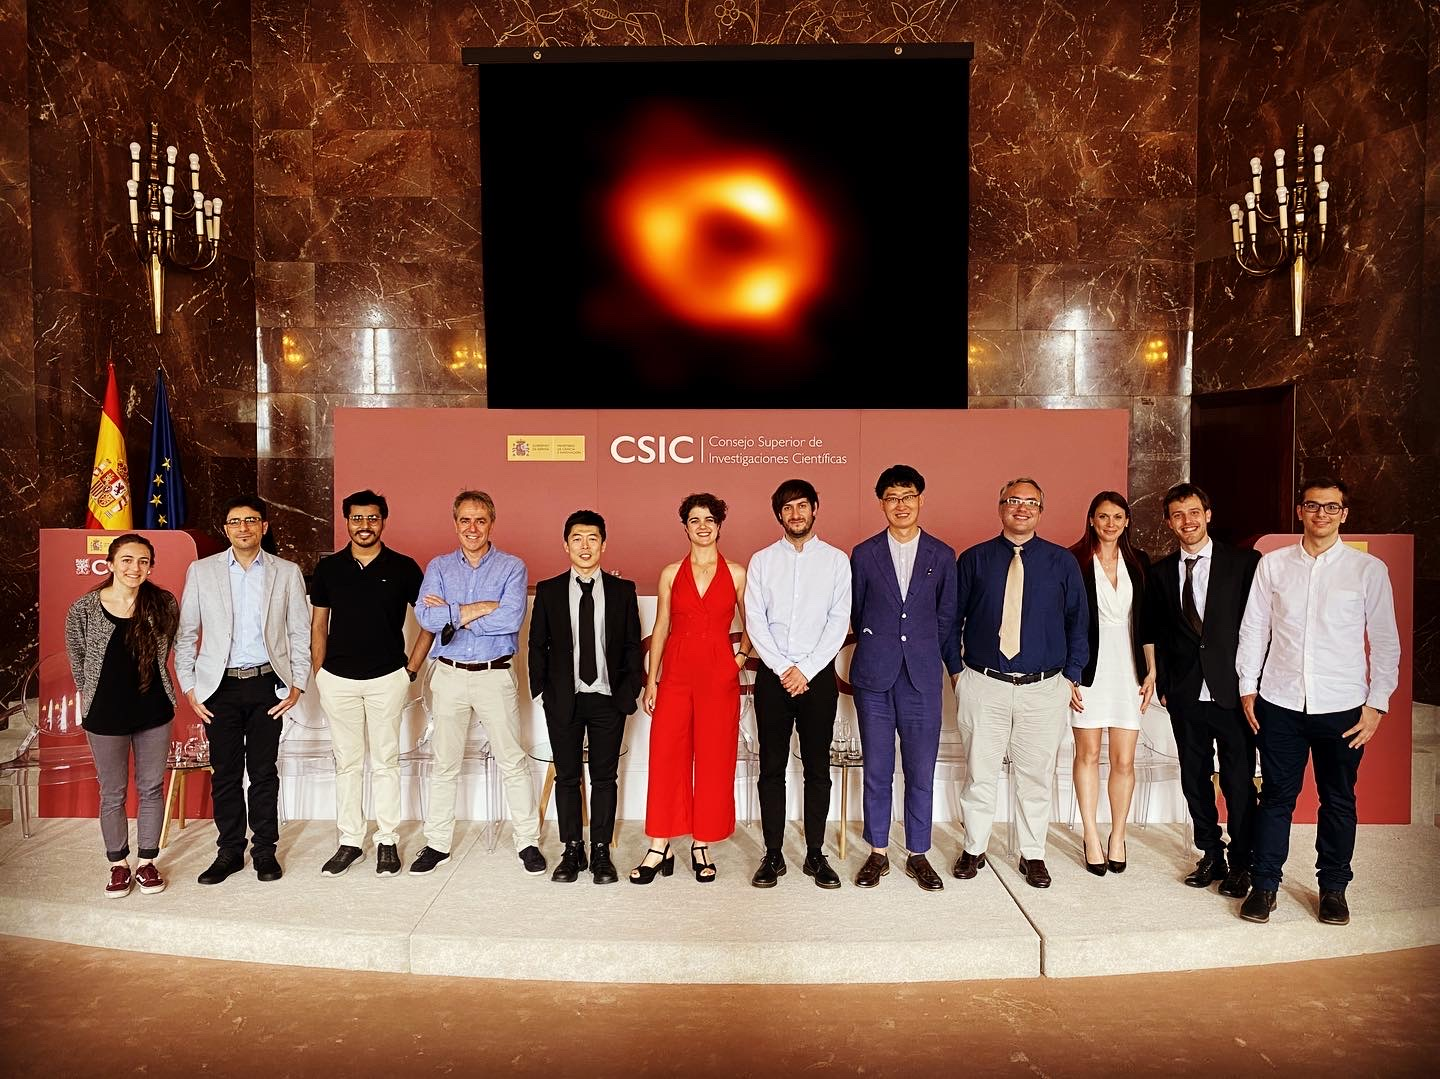
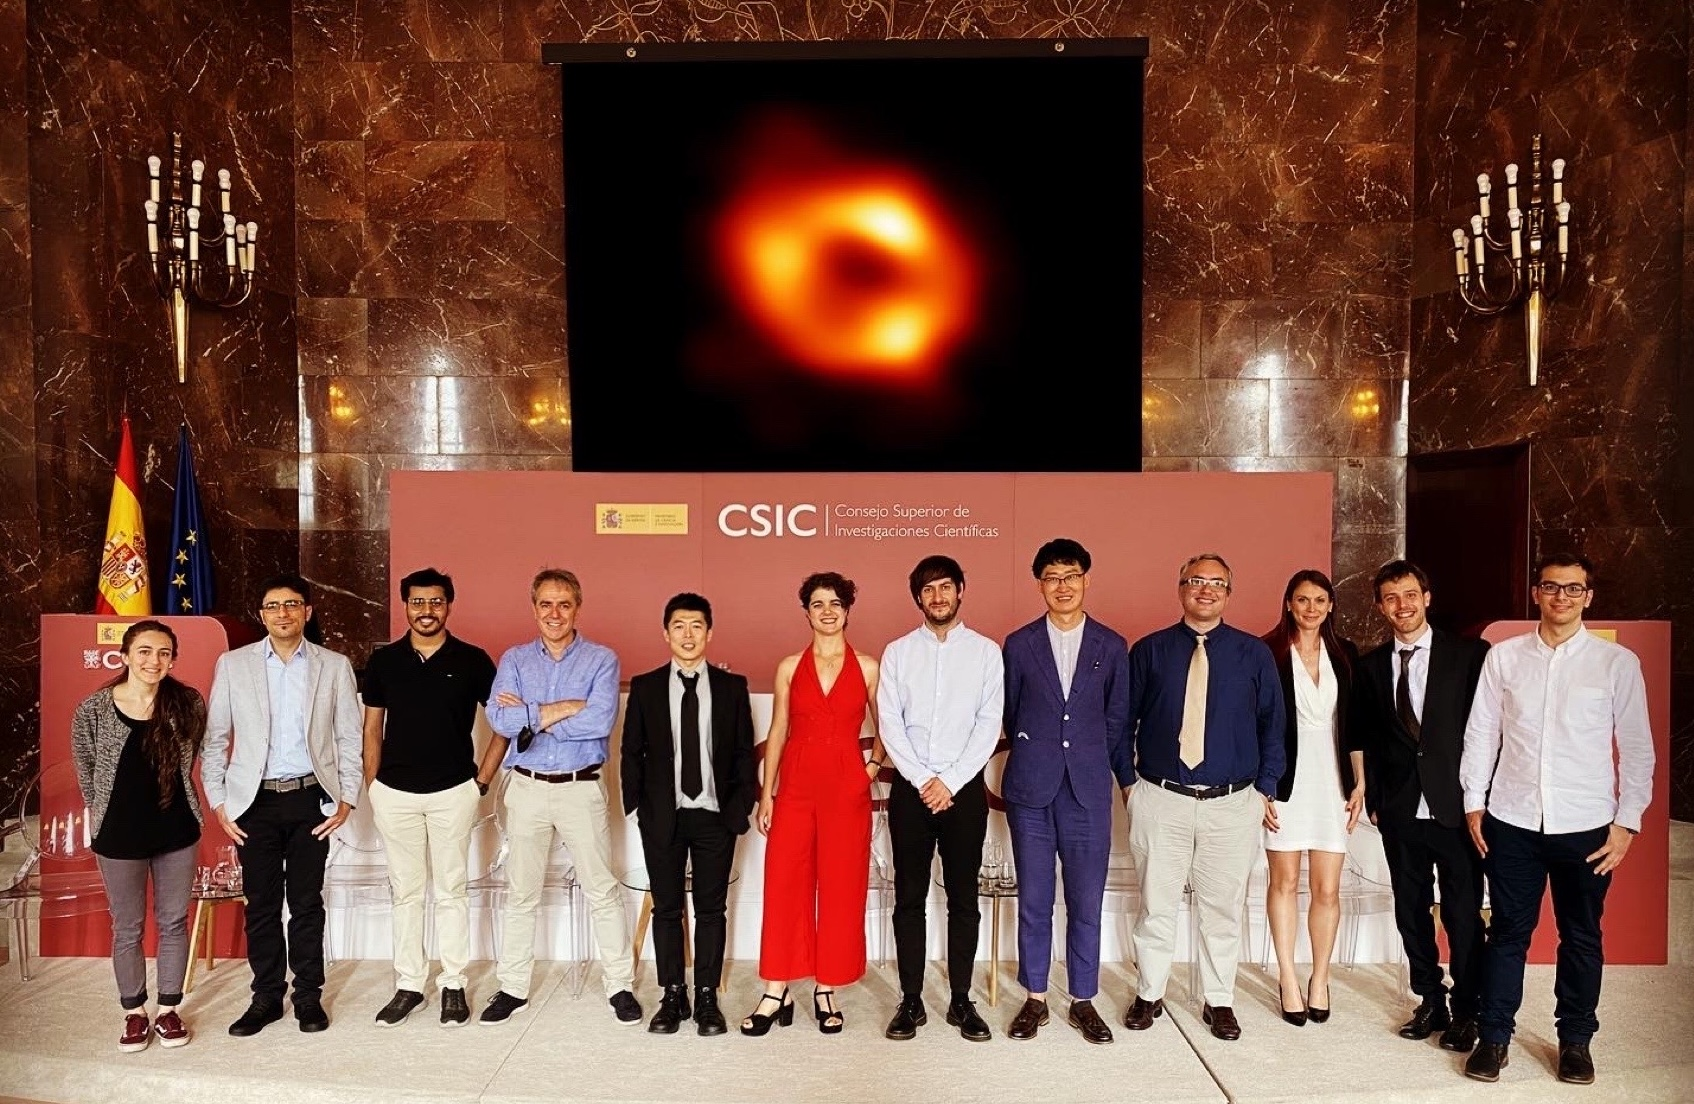
update

diff --git a/_pages/aboutme.md b/_pages/aboutme.md
@@ -4,7 +4,7 @@ permalink: /aboutme/
 ---
 
 <!-- <img src="/assets/iceland.jpeg" width="300"> -->
-![image](/assets/sgra_pr2.jpg)
+![image](/assets/sgra_pr.jpg)
 
 <h1>Employment</h1>
 * Since 2026 \| Assistant Professor, Kyungpook National University ([KNU](https://en.knu.ac.kr/main/main.htm){:target="_blank"}), Korea
